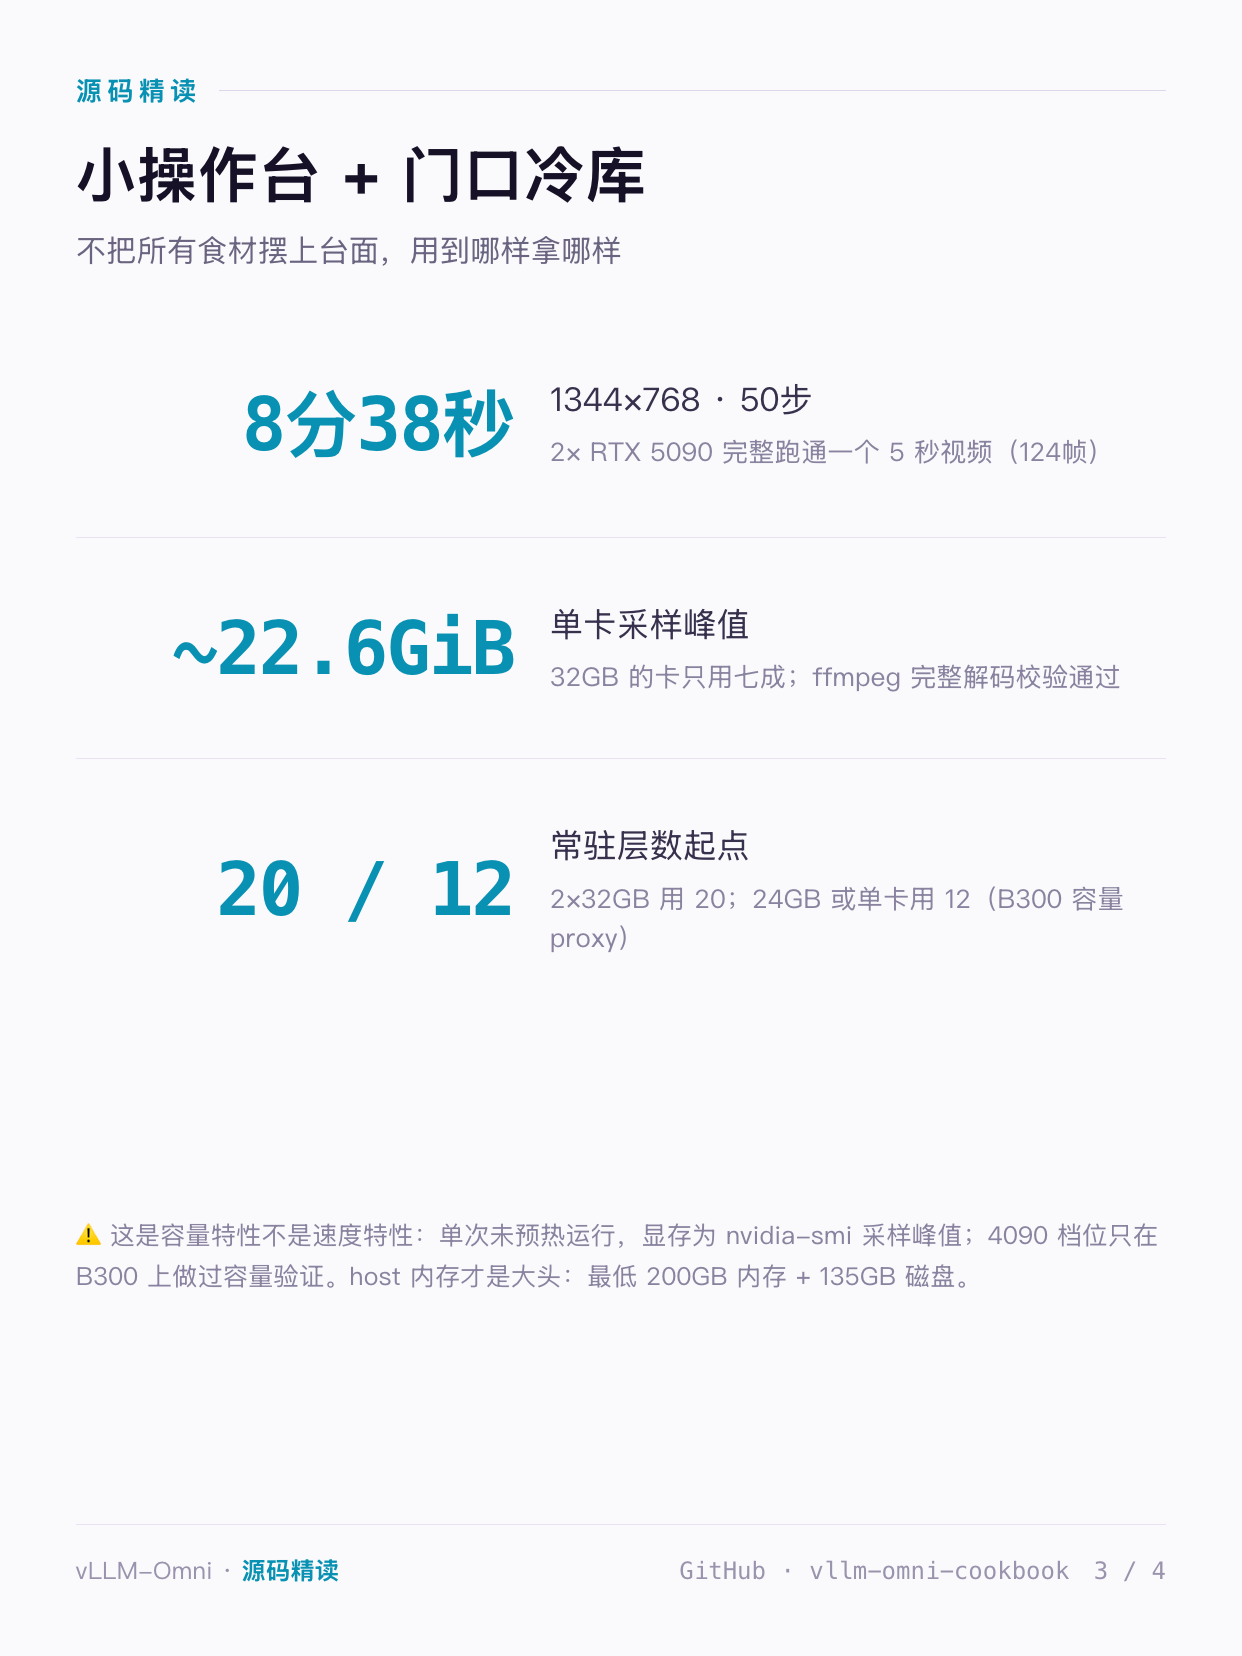
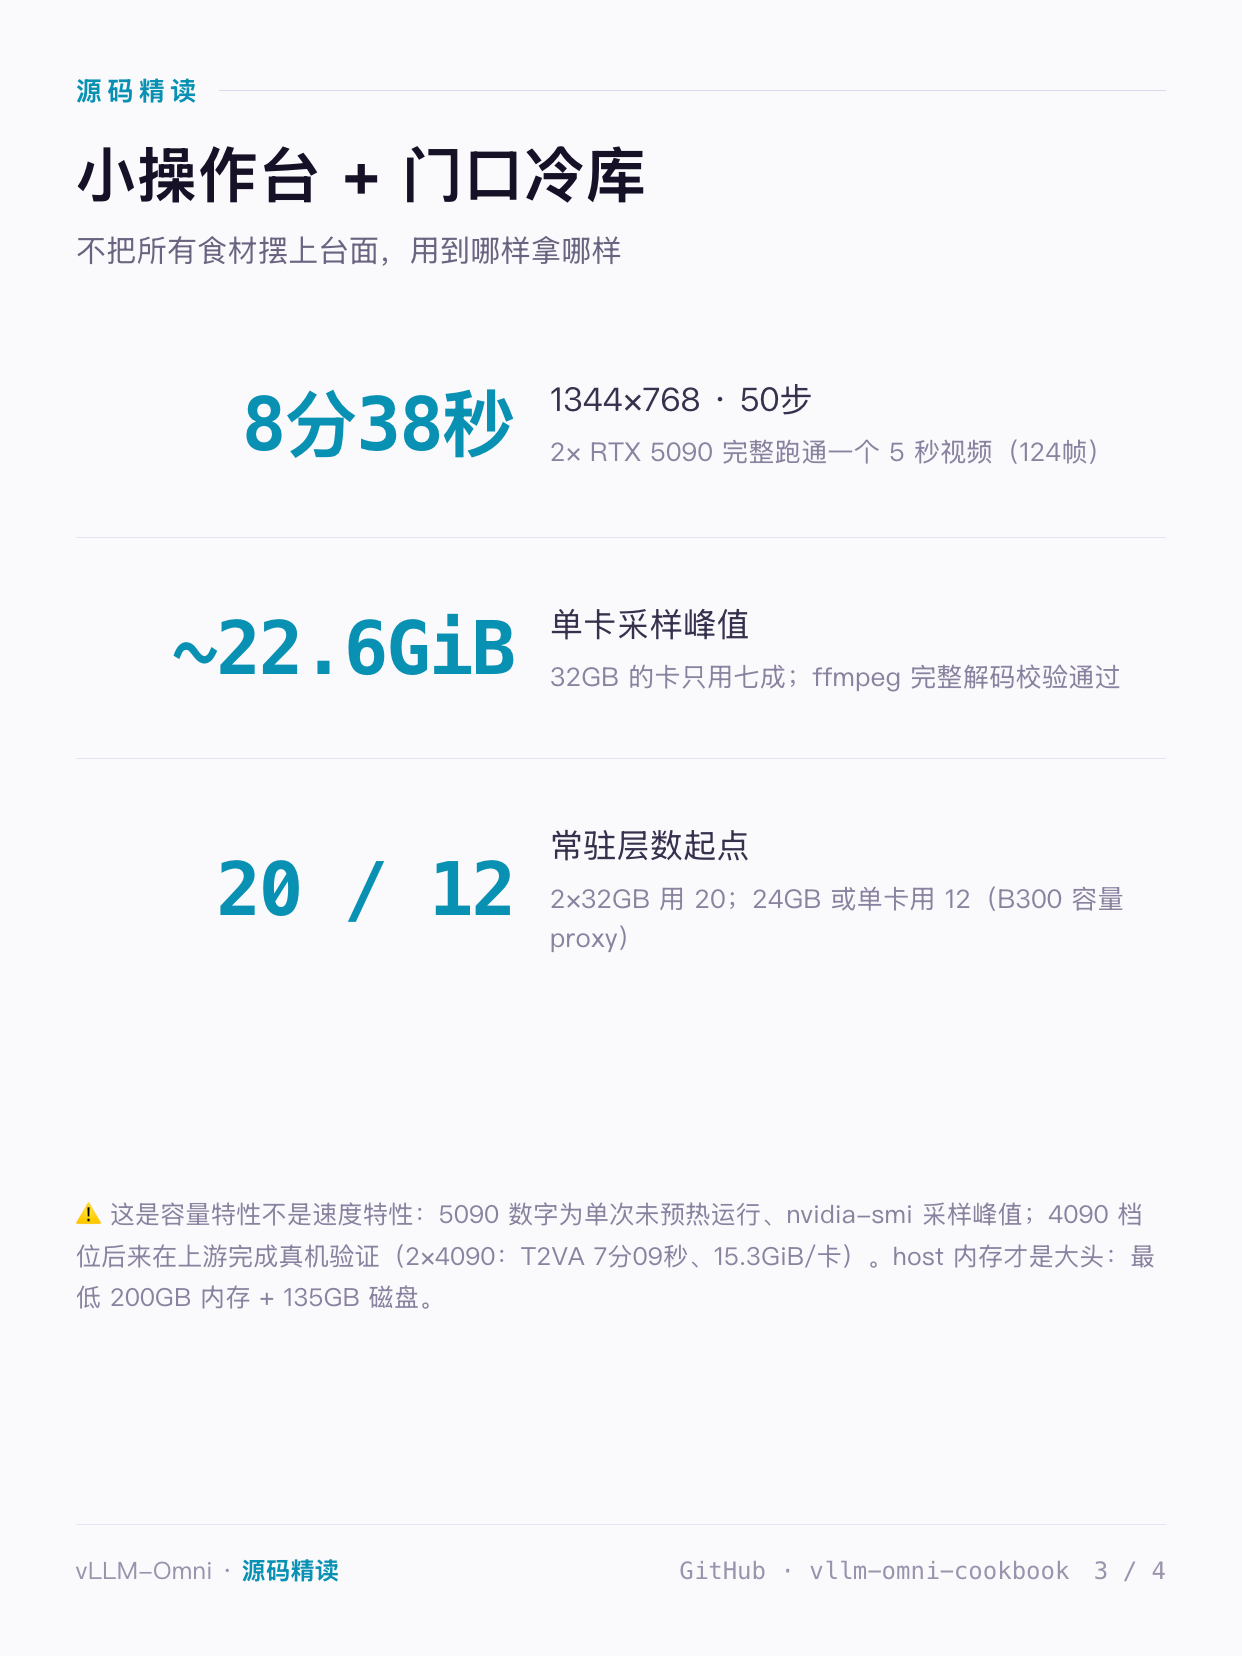
blog: Blog 4 sync with current upstream — 4090 target validation, replace removed runner tab

Changed region(s): [[0.0612, 0.7083, 0.9485, 0.8007]]

diff --git a/blog/_posts/2026-09-14-understanding-pr-5764-minimax-h3-layerwise-offload.md b/blog/_posts/2026-09-14-understanding-pr-5764-minimax-h3-layerwise-offload.md
@@ -47,19 +47,27 @@ usage:
     note: >-
       A 50-step B300 allocation test with this single-rank topology peaked
       at 26.50 GiB — a capacity proxy, not a consumer-GPU latency claim.
-  - label: "Offline · all tasks"
-    blurb: "T2VA, FL2VA, Ref2VA runner"
-    title: "run_h3_2gpu_all_tasks.sh"
+  - label: "Serve · 2× RTX 4090"
+    blurb: "24 GB cards, 12 resident blocks, 1024×576"
+    title: "vllm serve · the 24 GiB sibling"
     code: |
-      RUN_ROOT=/path/to/run-root \
-      MODEL_ROOT=/path/to/MiniMax-H3 \
-      GPU_IDS=0,1 \
-      PROFILE=rtx5090 \
-      bash examples/offline_inference/minimax_h3/run_h3_2gpu_all_tasks.sh
+      export VLLM_WORKER_MULTIPROC_METHOD=spawn
+      export VLLM_OMNI_VIDEO_SYNC_TIMEOUT=14400
+
+      CUDA_VISIBLE_DEVICES=0,1 vllm serve /path/to/MiniMax-H3/FL2VA \
+        --omni --trust-remote-code --host 0.0.0.0 --port 8000 \
+        --task-type fl2va \
+        --num-gpus 2 --tensor-parallel-size 2 --text-encoder-tp-size 2 \
+        --usp 1 --ring 1 --vae-patch-parallel-size 2 \
+        --vae-parallel-mode tile --vae-use-tiling \
+        --enable-distributed-layerwise-offload --dlo-no-use-allgather \
+        --dlo-resident-layers 12 --enforce-eager \
+        --diffusion-attention-backend CUDNN_ATTN
     note: >-
-      PROFILE=rtx4090 selects the conservative 24 GB defaults
-      (1024×576, 12 resident layers). DLO_RESIDENT_LAYERS=N overrides
-      either profile.
+      Target-validated upstream on 2× RTX 4090: T2VA in 7 min 9 s at 15.3 GiB
+      peak per GPU (repeat 434.9/429.3 s, identical peaks). The long sync
+      timeout is not optional — DLO streams over PCIe every step. A single
+      4090 is not covered (the one-GPU profile peaks at 26.50 GiB).
 decisions:
   - when: "Two 24–32 GB workstation cards are all you have"
     pick: "DLO + --dlo-no-use-allgather"
@@ -96,6 +104,10 @@ always-used items within arm's reach.
 |---|---:|---:|---:|---|---|
 | `rtx5090` | 2 × 32 GB | 1344×768 | 20 | `CUDNN_ATTN` | target-hardware validated |
 | `rtx4090` | 2 × 24 GB | 1024×576 | 12 | `CUDNN_ATTN` | capacity-proxy starting point |
+
+(The `rtx4090` row is the status at merge time. Upstream has since validated
+that profile on target hardware — 2× and 4× RTX 4090, T2VA in 7 min 9 s /
+4 min 29 s at ~15 GiB per GPU — see [Measured impact](#measured-impact).)
 
 On 2 × RTX 5090, one full 50-step T2VA request at 1344×768 completed in
 **8 min 38 s** client-side with a sampled peak of **~22.6 GiB per GPU** and a
@@ -265,6 +277,27 @@ knowing: raising `--dlo-resident-layers` improves latency but does **not**
 reduce host RAM, because resident layers retain their pinned CPU master
 copies.
 
+**Post-merge update (from the current upstream recipe):** the 24 GB profile
+has since been validated on target hardware. The dedicated
+[RTX 4090 recipe](https://github.com/vllm-project/vllm-omni/blob/main/recipes/MiniMaxAI/MiniMax-H3-4090.md)
+reports, at vLLM-Omni `0.26.1.dev55+g81b48e83e` on RTX 4090 (24,564 MiB,
+driver 580.126.09), 1024×576, 124 frames, 60 steps:
+
+| GPUs | Topology | Task | Client E2E | Peak per GPU | Repeats |
+|---:|---|---|---:|---:|---|
+| 2 | TP2×USP1 | T2VA | 7 min 9 s | 15.3 GiB | 434.9 / 429.3 s; identical peaks; outputs within 115 bytes |
+| 2 | TP2×USP1 | Ref2VA | 14 min 52 s | 14.6 GiB | 891.9 / 892.1 s |
+| 4 | TP2×USP2 | T2VA | 4 min 29 s | 15.2 GiB | 273.8 / 269.5 s (peaks 15,560 / 15,612 MiB) |
+| 4 | TP2×USP2 | Ref2VA | 9 min 5 s | 16.1 GiB | single run (follow-ups hit a since-fixed 30 s async-output wait) |
+
+These peaks are rank-0 CUDA reserved high-water marks read from response
+headers — a tighter measurement than the sampled `nvidia-smi` figure above.
+Four GPUs came in ~1.6× faster than two at the same per-GPU peak, because
+Ulysses shards activations but not the resident DiT weights. A single 4090
+remains uncovered: the one-GPU profile peaks at 26.50 GiB, over the 24 GiB
+budget, and upstream points single-card users at model-level CPU offload
+instead.
+
 For what DLO costs versus a resident deployment at the datacenter scale, the
 H100 four-GPU matrix in the [#6279 online-FP8 post]({{ site.baseurl }}/2026-08-19-pr-6279-dlo-online-fp8-allgather/) is the closest paired measurement on this blog.
 
@@ -311,8 +344,11 @@ match current upstream recipes either way.
 - **This is capacity, not speed.** 8 min 38 s for a five-second 50-step video
   is the streaming price; lower resident counts reduce HBM further and
   increase CPU-to-GPU transfer time. No A/B latency benchmark exists.
-- **The 24 GB (`rtx4090`) profile is a capacity proxy** — validated on B300
-  allocation runs, not on target 4090 hardware, and starting from 1024×576.
+- **The 24 GB profile was a capacity proxy at merge time** — validated on B300
+  allocation runs, not target hardware. It has since been target-validated on
+  2× and 4× RTX 4090 (see Measured impact), but a single 4090 is not covered:
+  the one-GPU profile peaks at 26.50 GiB, over the 24 GiB budget — upstream
+  points single-card users at model-level CPU offload instead.
 - **Host RAM is the real footprint.** 200 GiB minimum per partition; resident
   layers keep pinned CPU masters, so the knob trades HBM, not host memory.
   Multiple independent engines on one host should look at
@@ -339,8 +375,8 @@ match current upstream recipes either way.
 - [PR #5802 — Fix DLO AllGather size mismatch for heterogeneous blocks](https://github.com/vllm-project/vllm-omni/pull/5802) (merged 2026-08-05)
 - [PR #5864 — Fix DLO DP concurrent request execution](https://github.com/vllm-project/vllm-omni/pull/5864) (merged 2026-08-08)
 - [MiniMax-H3 RTX 5090 recipe](https://github.com/vllm-project/vllm-omni/blob/main/recipes/MiniMaxAI/MiniMax-H3-5090.md) (upstream, current)
+- [MiniMax-H3 RTX 4090 recipe](https://github.com/vllm-project/vllm-omni/blob/main/recipes/MiniMaxAI/MiniMax-H3-4090.md) (upstream, current — includes the target-hardware validation; the #5764-era `run_h3_2gpu_all_tasks.sh` all-task runner has since been removed from `examples/`)
 - [MiniMax-H3 recipe hub](https://github.com/vllm-project/vllm-omni/blob/main/recipes/MiniMaxAI/MiniMax-H3.md) (upstream, current)
-- [All-task 2-GPU runner](https://github.com/vllm-project/vllm-omni/blob/main/examples/offline_inference/minimax_h3/run_h3_2gpu_all_tasks.sh) (upstream, current)
 - [DLO user guide](https://github.com/vllm-project/vllm-omni/blob/main/docs/user_guide/diffusion/offloader/distributed_layerwise_offload.md) (upstream, current — documents both the new `diffusion_offload_config` and the compatibility flags)
 - [RFC #6648 — Unify the offloader protocol and user interface](https://github.com/vllm-project/vllm-omni/issues/6648) (open; J0 = #5929 and J1 = #7209 merged)
 - [Host Weight Runtime post — PR #6591]({{ site.baseurl }}/2026-08-26-understanding-pr-6591-host-weight-runtime/)
